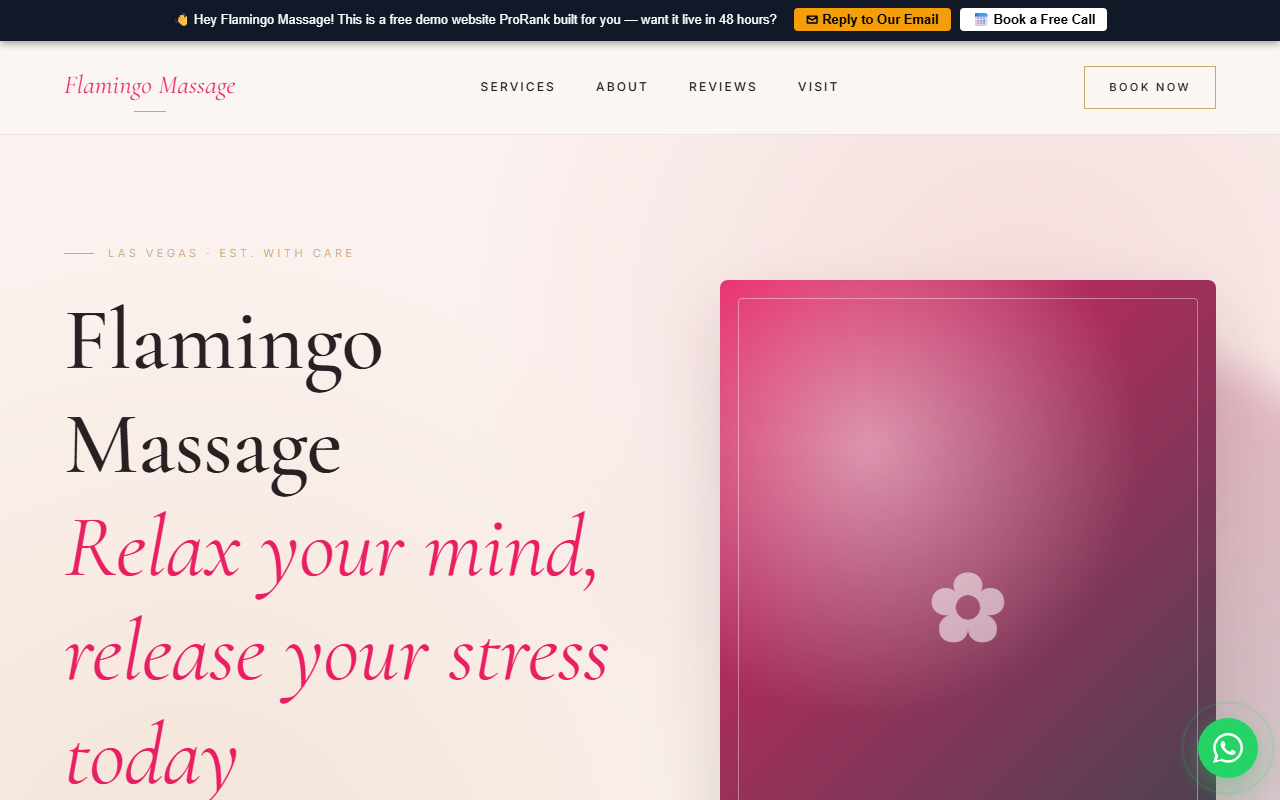
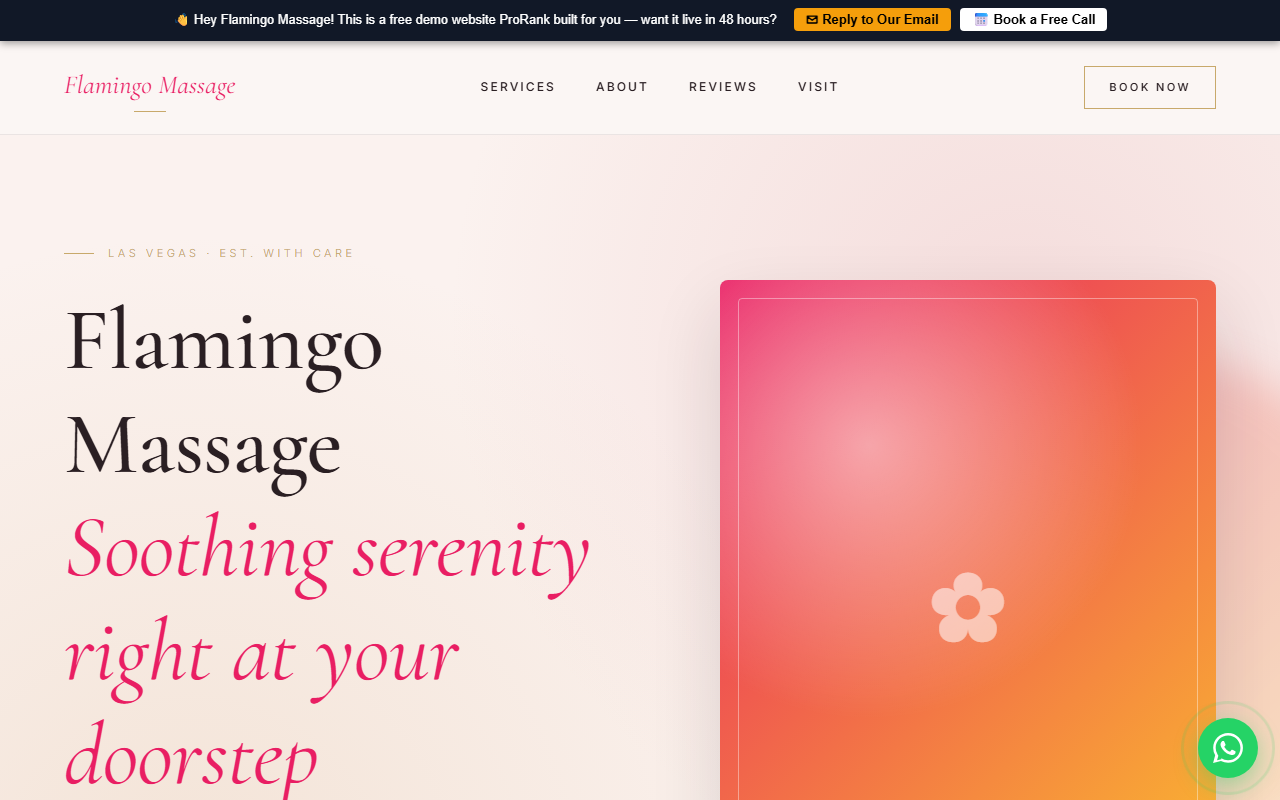
Add demo: flamingo-massage

diff --git a/flamingo-massage/index.html b/flamingo-massage/index.html
@@ -4,14 +4,14 @@
 <meta charset="UTF-8" />
 <meta name="viewport" content="width=device-width, initial-scale=1.0" />
 <title>Flamingo Massage — Las Vegas</title>
-<meta name="description" content="Experience profound relief and tranquility at Flamingo Massage in Las Vegas. Our expert therapists offer custom treatments designed to restore balance and calm your spirit." />
+<meta name="description" content="Escape to tranquility with Flamingo Massage. Expert therapists offer deep tissue and hot stone sessions in a warm, premium Las Vegas setting." />
 <link rel="preconnect" href="https://fonts.googleapis.com">
 <link rel="preconnect" href="https://fonts.gstatic.com" crossorigin>
 <link href="https://fonts.googleapis.com/css2?family=Cormorant+Garamond:ital,wght@0,400;0,500;0,600;1,400&family=Inter:wght@300;400;500;600&display=swap" rel="stylesheet">
 <style>
   :root {
     --primary: #E91E63;
-    --secondary: #37474F;
+    --secondary: #FBC02D;
     --blush: #fbf2ef;
     --pearl: #faf6f3;
     --ink: #2a1f23;
@@ -334,7 +334,7 @@
   <div class="hero-inner">
     <div class="hero-text">
       <div class="eyebrow">Las Vegas · Est. with care</div>
-      <h1>Flamingo Massage<br/><em>Relax your mind, release your stress today</em></h1>
+      <h1>Flamingo Massage<br/><em>Soothing serenity right at your doorstep</em></h1>
       <p class="lede">A quiet space to unwind, refresh, and leave feeling like the very best version of yourself.</p>
       <div class="hero-actions">
         <a href="tel:+17028768769" class="btn btn-primary">Book Appointment</a>
@@ -356,19 +356,19 @@
       <div class="service-card">
         <span class="service-num">— No. 01 —</span>
         <div class="service-icon">✂</div>
-        <h3>Deep tissue massage</h3>
+        <h3>Deep tissue therapy</h3>
         <p>A consultation, a fresh perspective, and a finish that's unmistakably you.</p>
       </div>
       <div class="service-card">
         <span class="service-num">— No. 02 —</span>
         <div class="service-icon">❋</div>
-        <h3>Swedish relaxation therapy</h3>
+        <h3>Hot stone relaxation</h3>
         <p>Premium products, gentle technique, and results that hold up beautifully.</p>
       </div>
       <div class="service-card">
         <span class="service-num">— No. 03 —</span>
         <div class="service-icon">✿</div>
-        <h3>Hot stone treatment</h3>
+        <h3>Aromatherapy massage</h3>
         <p>An hour just for you — to relax, refresh, and walk out glowing.</p>
       </div>
     </div>
